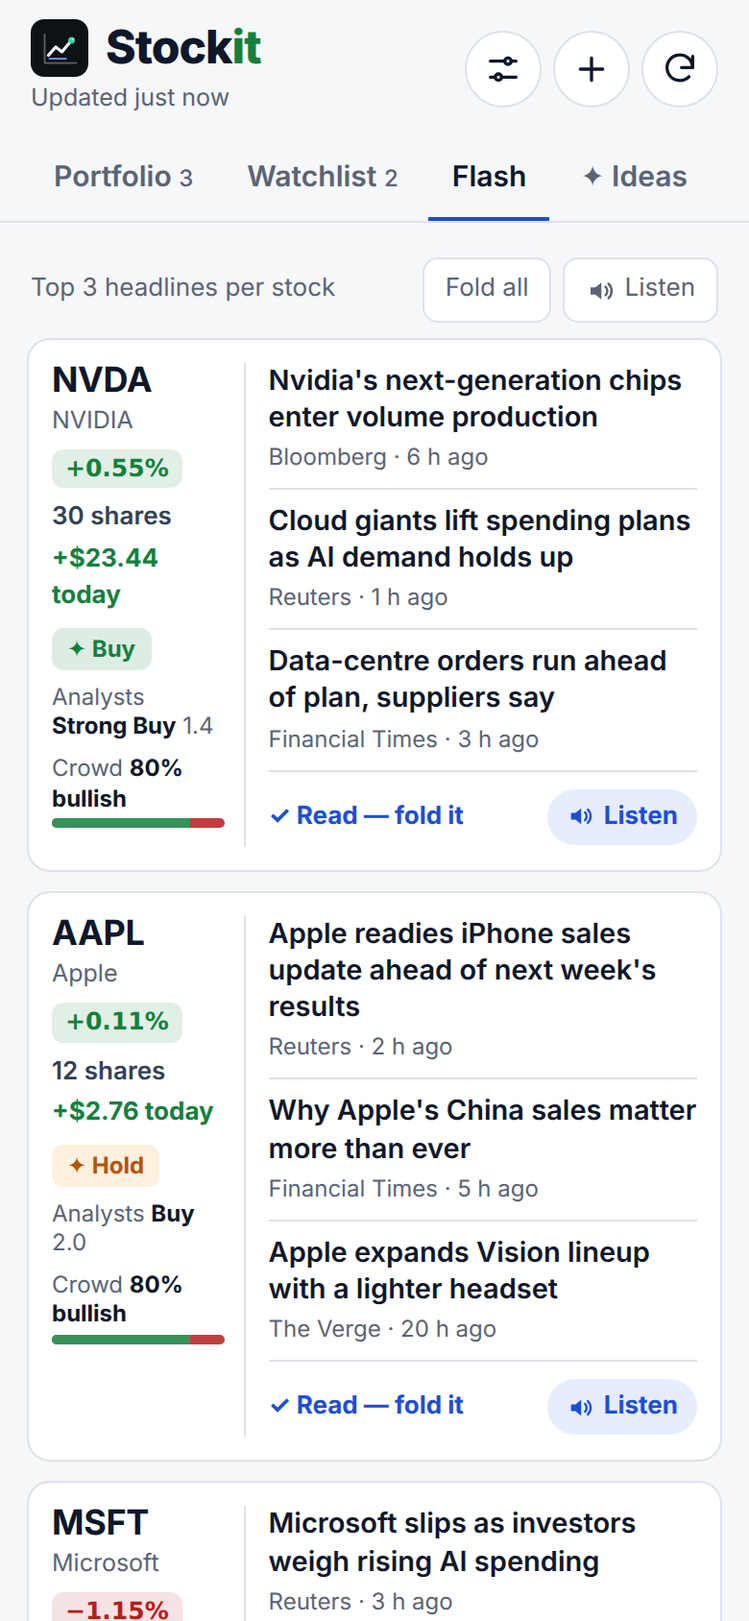
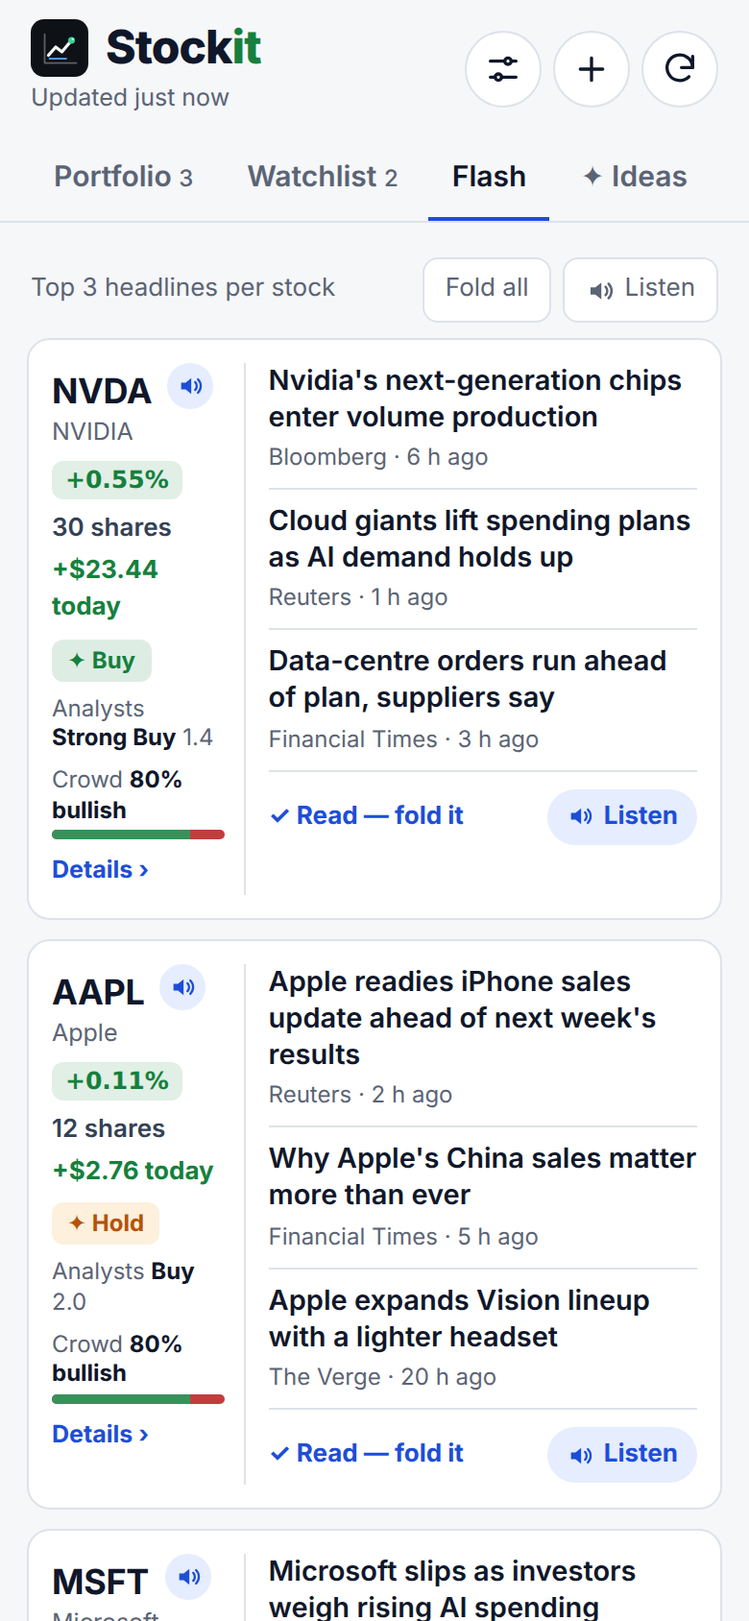
Stockit 1.4.0: tap a stock to hear its news, three full articles per story

Changed region(s): [[0.3077, 0.5237, 0.9538, 1.0], [0.0308, 0.2156, 0.3077, 0.8934], [0.0308, 0.8934, 0.2769, 1.0]]

diff --git a/Stockit.js b/Stockit.js
@@ -22,7 +22,7 @@
  */
 
 // This build's version. When releasing, bump it and add a matching entry to releases.json.
-const VERSION = '1.3.0';
+const VERSION = '1.4.0';
 const APP_ID = 'stockit';   // unique per app, never changes
 const REPO_RAW = 'https://raw.githubusercontent.com/gadominas/StockIt/main/';
 const SCRIPT_FILE = 'Stockit.js';   // the script's file name in the repository
@@ -816,11 +816,34 @@ function extractArticle(html) {
   const text = paras.join("\n\n");
   return { desc, paras, text, words: text ? text.split(/\s+/).length : 0 };
 }
+// Yahoo asks visitors in Europe for cookie consent before showing an article. Stockit answers the consent form once
+// (the same choice as tapping "Accept all") and keeps the cookies it gets, so later articles load directly.
+let consentRun = null;
+async function yahooConsent(html, pageUrl) {
+  const form = (html.match(/<form[^>]*method="post"[\s\S]*?<\/form>/i) || [])[0];
+  if (!form) return false;
+  const action = new URL((form.match(/action="([^"]*)"/i) || [])[1] || pageUrl, pageUrl).toString();
+  const fields = [];
+  for (const inp of form.match(/<input[^>]+>/gi) || []) {
+    const name = (inp.match(/name="([^"]+)"/i) || [])[1], val = (inp.match(/value="([^"]*)"/i) || [])[1] || "";
+    if (name && /type="hidden"/i.test(inp)) fields.push(encodeURIComponent(name) + "=" + encodeURIComponent(val.replace(/&amp;/g, "&")));
+  }
+  fields.push("agree=agree", "agree=agree");
+  const r = new Request(action);
+  r.method = "POST"; r.timeoutInterval = cfg("fetchTimeout");
+  r.headers = { "User-Agent": cfg("userAgent"), "Content-Type": "application/x-www-form-urlencoded" };
+  r.body = fields.join("&");
+  await r.loadString();
+  const jar = ((r.response && r.response.cookies) || []).filter(c => c && c.name && /yahoo/i.test(c.domain || "yahoo")).map(c => c.name + "=" + c.value);
+  if (jar.length) { settings.yahooCookie = jar.join("; "); write("settings", settings); }
+  return true;
+}
 async function articleHTML(url) {
   const get = async u => {
     const r = new Request(u);
     r.timeoutInterval = cfg("fetchTimeout");
-    r.headers = { "User-Agent": cfg("userAgent"), "Accept": "text/html,application/xhtml+xml;q=0.9,*/*;q=0.5" };
+    r.headers = { "User-Agent": cfg("userAgent"), "Accept": "text/html,application/xhtml+xml;q=0.9,*/*;q=0.5", "Accept-Language": "en-US,en;q=0.8" };
+    if (settings.yahooCookie && /(^|\.)yahoo\.com$/i.test((u.match(/^https?:\/\/([^/]+)/i) || [])[1] || "")) r.headers.Cookie = settings.yahooCookie;
     const html = await r.loadString();
     return { html: html || "", url: (r.response && r.response.url) || u, code: r.response ? r.response.statusCode : 0 };
   };
@@ -829,6 +852,10 @@ async function articleHTML(url) {
     if (real) url = real;
   }
   let r = await get(url);
+  if (/consent\.yahoo\.com|guce\.yahoo\.com/i.test(r.url)) {   // one consent answer at a time, shared by articles loading together
+    consentRun = consentRun || yahooConsent(r.html, r.url).catch(e => { console.log("Yahoo consent: " + e); return false; }).finally(() => { setTimeout(() => { consentRun = null; }, 0); });
+    if (await consentRun) r = await get(url);
+  }
   if (/news\.google\.com/i.test(r.url)) {   // still a Google page: follow it if it names the article
     const m = r.html.match(/data-n-au="([^"]+)"/) || r.html.match(/<a[^>]+href="(https:\/\/(?![a-z.]*google\.)[^"]+)"/i);
     r = m ? await get(m[1].replace(/&amp;/g, "&")) : { html: "", url };
@@ -912,29 +939,49 @@ Reply with ONLY JSON, no code fences: {"tldr":"one sentence with the gist","stor
 // ✦ AI weaves them into a few spoken paragraphs; without AI, each article's key sentences are read in turn.
 async function makeDigest(sym, links) {
   const m = market[sym] || {}, x = stocks.find(y => y.s === sym) || {};
-  const news = links.map(l => (m.news || []).find(h => h.l === l)).filter(Boolean).slice(0, 5);
-  if (!news.length) throw new Error("No headlines to read for " + sym);
-  const arts = await Promise.all(news.map(readArticle));
-  const read = arts.filter(a => a.usable).length, base = { at: Date.now(), n: news.length, read, links: news.map(h => h.l) };
+  const ranked = links.map(l => (m.news || []).find(h => h.l === l)).filter(Boolean).slice(0, 8);
+  if (!ranked.length) throw new Error("No headlines to read for " + sym);
+  // Read the top three articles; when one can't be read, read the next headline instead, until three are read.
+  const want = Math.min(3, ranked.length), done = [];
+  for (let k = 0; k < ranked.length && done.filter(d => d.a.usable).length < want; ) {
+    const need = want - done.filter(d => d.a.usable).length, batch = ranked.slice(k, k + need);
+    k += batch.length;
+    (await Promise.all(batch.map(readArticle))).forEach((a, i) => done.push({ h: batch[i], a }));
+  }
+  const readOnes = done.filter(d => d.a.usable).slice(0, want);
+  const headOnly = ranked.slice(0, want).filter(h => !readOnes.some(d => d.h === h));
+  const used = readOnes.concat(headOnly.map(h => ({ h, a: done.find(d => d.h === h) ? done.find(d => d.h === h).a : { art: null, usable: false } })));
+  const others = (m.news || []).filter(h => !used.some(d => d.h === h)).slice(0, 8);
+  const base = { at: Date.now(), n: used.length, read: readOnes.length, tried: done.length,
+    sources: used.map(d => ({ t: d.h.t, p: d.h.p, l: d.a.url || d.h.l, read: !!d.a.usable, words: d.a.usable ? d.a.art.words : 0 })) };
   const name = cleanName(m.name) || x.name || sym;
-  let note = "";
+  let note = readOnes.length < want ? `Read ${readOnes.length} of ${want} articles in full; the rest are told from their headlines.` : "";
   if (aiKey()) {
     try {
-      const dp = dayPct(m), per = Math.max(2500, Math.floor(cfg("tldrChars") * 1.5 / news.length));
+      const dp = dayPct(m), per = Math.max(3000, Math.floor(cfg("tldrChars") * 2 / Math.max(1, readOnes.length)));
       const system = `You are the news presenter in a stock app, telling a casual long-term investor who owns or watches ${name} (${sym}) what the latest news says. Your words are read aloud by a voice.
-Weave the articles into one story: lead with what matters most, connect the pieces, give the concrete facts and numbers, explain jargon in passing, and say where facts come from in words ("Reuters reports…").
-Use only facts in the articles. Where only a headline or summary is available, say so briefly rather than guessing. Never invent figures, quotes or events. Don't tell the listener to buy or sell.
+Weave the articles into one story: lead with what matters most, then go through what each article reports in detail — the facts, numbers, names, quotes and reasons it gives — connect the pieces, explain jargon in passing, and say where facts come from in words ("Reuters reports…").
+Use only facts in the material given. For items with only a headline, say briefly what the headline reports and that the full article wasn't available. Never invent figures, quotes or events. Don't tell the listener to buy or sell.
 Written for the ear: no bullet points, lists, brackets, tables, URLs or emoji; spell out symbols where it helps ("percent", "billion").
-Reply with ONLY JSON, no code fences: {"title":"at most 10 words","story":"3 to 5 paragraphs separated by blank lines, 250 to 400 words","takeaway":"one or two sentences on what it could mean for ${sym}"}`;
-      const user = `Today is ${dateS(Date.now())}. ${dp != null ? `${sym} moved ${dp.toFixed(2)}% today.` : ""}\n\n` + news.map((h, i) => `Article ${i + 1}: ${h.t}\nFrom ${h.p}, ${dateS(h.at || Date.now())}\n` +
-        (arts[i].usable ? arts[i].art.text.slice(0, per) : arts[i].art && arts[i].art.desc ? "Only its summary is available: " + arts[i].art.desc : "Only the headline is available.")).join("\n\n---\n\n");
-      const j = parseJSON(await aiCall(system, user, 1800, "digest"));
-      return Object.assign(base, { kind: "ai", by: settings.aiProvider, title: String(j.title || name + " in the news").slice(0, 140), story: String(j.story || "").slice(0, 6000), takeaway: String(j.takeaway || "").slice(0, 600) });
+Length: 350 to 550 words in 4 to 6 paragraphs when full articles are given; shorter only if there is genuinely little to say.
+Reply with ONLY JSON, no code fences: {"title":"at most 10 words","story":"the paragraphs, separated by blank lines","takeaway":"one or two sentences on what it could mean for ${sym}"}`;
+      const facts = [dp != null ? `${sym} moved ${dp.toFixed(2)}% today.` : "", m.f && m.f.rating ? `Analysts' average rating: ${m.f.rating}.` : ""].filter(Boolean).join(" ");
+      const user = `Today is ${dateS(Date.now())}. ${facts}\n\n` + used.map((d, i) => `Article ${i + 1}: ${d.h.t}\nFrom ${d.h.p}, ${dateS(d.h.at || Date.now())}\n` +
+          (d.a.usable ? "Full text:\n" + d.a.art.text.slice(0, per) : d.a.art && d.a.art.desc ? "Only its summary is available: " + d.a.art.desc : "Only the headline is available.")).join("\n\n---\n\n") +
+        (others.length ? "\n\n---\n\nOther recent headlines, for context only:\n" + others.map(h => `- ${h.t} (${h.p}, ${dateS(h.at || Date.now())})`).join("\n") : "");
+      let j = parseJSON(await aiCall(system, user, 2600, "digest"));
+      const words = t => String(t || "").split(/\s+/).filter(Boolean).length;
+      if (readOnes.length && words(j.story) < 250) {   // too thin for the material given: ask once more, longer
+        const again = parseJSON(await aiCall(system, user + `\n\nYour last story was only ${words(j.story)} words. Write the full 350 to 550 words, going through each article's details.`, 2600, "digest"));
+        if (words(again.story) > words(j.story)) j = again;
+      }
+      return Object.assign(base, { kind: "ai", by: settings.aiProvider, note, title: String(j.title || name + " in the news").slice(0, 140),
+        story: String(j.story || "").slice(0, 9000), takeaway: String(j.takeaway || "").slice(0, 700), words: words(j.story) });
     } catch (e) { note = "The AI story failed (" + String(e.message || e).slice(0, 60) + "), so these are the articles' key sentences."; }
   }
-  const parts = news.map((h, i) => {
-    const a = arts[i], t = extractiveTldr(h.t, a.usable ? a.art : null, (a.art && a.art.desc) || "");
-    return [h.t + ". From " + h.p + "."].concat(t.lead && t.lead !== h.t ? [t.lead] : []).concat(t.points.slice(0, 4)).join(" ");
+  const parts = used.map(d => {
+    const t = extractiveTldr(d.h.t, d.a.usable ? d.a.art : null, (d.a.art && d.a.art.desc) || "");
+    return [d.h.t + ". From " + d.h.p + "."].concat(t.lead && t.lead !== d.h.t ? [t.lead] : []).concat(t.points.slice(0, 6)).join(" ");
   });
   return Object.assign(base, { kind: "extract", note, title: name + " in the news", story: parts.join("\n\n"), takeaway: "" });
 }
@@ -1234,7 +1281,7 @@ async function handle(m) {
       return call("onTldr", m.id, tldrs[id]);
     }
     case "digest": {   // Flash › Listen: a stock's top articles as one story, cached for the same headlines
-      const links = (Array.isArray(m.links) ? m.links : []).map(String).slice(0, 5), id = "d:" + tldrId(m.s + "|" + links.join("|"));
+      const links = (Array.isArray(m.links) ? m.links : []).map(String).slice(0, 8), id = "d2:" + tldrId(m.s + "|" + links.slice(0, 3).join("|"));
       if (tldrs[id] && !m.force && !(tldrs[id].kind === "extract" && aiKey())) return call("onDigest", m.id, tldrs[id]);   // a key added since: tell it with AI now
       try { tldrs[id] = await makeDigest(m.s, links); pruneTldrs(); write("tldrs", tldrs); }
       catch (e) { return call("onDigest", m.id, { error: String(e.message || e) }); }
@@ -1840,12 +1887,13 @@ function clientApp() {
   // ---- Flash: each stock's top headlines, a TL;DR per headline, and reading aloud ----
   const MAJOR = /reuters|bloomberg|financial times|wall street journal|\bwsj\b|cnbc|barron|marketwatch|economist|associated press|yahoo finance|investor's business|morningstar|nikkei|forbes|fortune|handelsblatt/i;
   const QUOTE_PAGE = /stock price, news, quote|bond yield and price|price, chart|quote & history|historical prices/i;   // listing pages, not news
-  function topNews(x) {
+  function rankNews(x) {
     const now = Date.now(), tick = x.s.split(/[.=^-]/)[0].replace(/[^A-Za-z0-9]/g, ""), first = String(x.name || "").split(/[\s,.]/)[0].toLowerCase();
     const about = h => (tick && new RegExp("\\b" + tick + "\\b", "i").test(h.t)) || (first.length > 2 && h.t.toLowerCase().includes(first));
     const score = h => Math.exp(-(now - h.at) / 864e5 / 1.5) + (MAJOR.test(h.p) ? 0.5 : 0) + (about(h) ? 0.4 : -0.8);   // headlines that don't name the company sink
-    return (x.news || []).filter(h => !QUOTE_PAGE.test(h.t)).map(h => [h, score(h)]).sort((a, b) => b[1] - a[1]).slice(0, S.cfg.flashPerStock || 3).map(a => a[0]);
+    return (x.news || []).filter(h => !QUOTE_PAGE.test(h.t)).map(h => [h, score(h)]).sort((a, b) => b[1] - a[1]).map(a => a[0]);
   }
+  const topNews = x => rankNews(x).slice(0, S.cfg.flashPerStock || 3);
   const flashOrder = () => S.stocks.slice().sort((a, b) => (a.list === "own" ? 0 : 1) - (b.list === "own" ? 0 : 1)
     || ((b.sh || 0) * (b.price || 0)) - ((a.sh || 0) * (a.price || 0)) || a.s.localeCompare(b.s));
   // A folded card stays folded until a newer headline arrives; then it opens again, marked New.
@@ -1868,6 +1916,14 @@ function clientApp() {
       ${r ? `<span class="fl-r" title="Average analyst rating">Analysts <b>${esc(r[0])}</b>${r[1] ? ` <span class="muted">${esc(r[1])}</span>` : ""}</span>` : ""}
       ${crowd != null ? `<span class="fl-r" title="StockTwits crowd mood">Crowd <b class="${crowd >= 50 ? "up" : "down"}">${crowd}% bullish</b></span><span class="flmood" aria-hidden="true"><i style="width:${crowd}%"></i></span>` : ""}`;
   }
+  const dgOpen = new Set();
+  function storyPanel(x, d, dk) {
+    const srcs = d.sources || [];
+    return `<details class="fl-story" data-k="${esc(dk)}" ${dgOpen.has(dk) ? "open" : ""}><summary>${d.kind === "ai" ? "✦ " : ""}The story you heard · ${srcs.length ? `${d.read} of ${srcs.length} articles read in full` : esc(rel(d.at))}</summary>
+      <h4>${esc(d.title)}</h4>${paras(d.story).join("")}${d.takeaway ? `<p class="fl-take"><b>What it could mean for ${esc(x.s)}:</b> ${esc(d.takeaway)}</p>` : ""}
+      ${srcs.length ? `<ol class="fl-src">${srcs.map(sr => `<li><button class="link small" data-act="openlink" data-v="${esc(sr.l)}">${esc(sr.t)}</button><small>${esc(sr.p)} · ${sr.read ? `read in full, ${sr.words} words` : "headline only — the article couldn't be opened"}</small></li>`).join("")}</ol>` : ""}
+      ${d.note ? `<p class="note">${esc(d.note)}</p>` : ""}</details>`;
+  }
   function flashHTML() {
     if (!S.stocks.length) return `<section class="empty"><h2>No stocks yet</h2><p>Add a stock and its top headlines appear here, each with a TL;DR.</p><button class="primary" data-act="addopen">Add stocks</button></section>`;
     const n = S.cfg.flashPerStock || 3, list = flashOrder(), folded = list.filter(isFolded).length;
@@ -1880,13 +1936,15 @@ function clientApp() {
         if (f) return `<article class="fl folded" id="c-fl-${esc(x.s)}"><button class="fl-fold" data-act="fold" data-v="${esc(x.s)}" data-on="0" aria-label="Open ${esc(x.s)} headlines">
             <b>${esc(x.s)}</b><span class="pill ${cls(dayPct(x))}">${pct(dayPct(x))}</span>${x.sig ? sigChip(x.sig) : ""}
             <span class="fl-fs">${top.length} read · newest ${top.length ? rel(newest(x)) : "—"}</span><span class="chev" aria-hidden="true">›</span></button></article>`;
-        return `<article class="fl" id="c-fl-${esc(x.s)}"><div class="fl-l"><button class="fl-s" data-act="open" data-v="${esc(x.s)}" aria-label="Open ${esc(x.s)}">
-            <b>${esc(x.s)}</b><small>${short}</small></button>${flashFacts(x)}</div>
+        const dk = dgKey(x), dd = dg[dk], busyS = !!dgWait[dk], on = tts.on && (tts.items[(tts.parts[tts.i] || {}).k] || {}).id === "fl-" + x.s;
+        return `<article class="fl" id="c-fl-${esc(x.s)}"><div class="fl-l"><button class="fl-s" data-act="listenstock" data-v="${esc(x.s)}" aria-label="Listen to ${esc(x.s)} news">
+            <b>${esc(x.s)} <span class="fl-spk ${busyS ? "busy" : ""}">${busyS ? `<span class="busy-dot"></span>` : SPK}</span></b><small>${short}</small></button>${flashFacts(x)}
+            <button class="fl-open" data-act="open" data-v="${esc(x.s)}">Details ›</button></div>
           <div class="fl-n">${isNew ? `<span class="fl-new">New since you folded it</span>` : ""}${top.length ? top.map(h => `<button class="fl-h" data-act="newsopen" data-s="${esc(x.s)}" data-v="${esc(h.l)}"><b>${esc(h.t)}</b><small>${esc(h.p)} · ${rel(h.at)}</small></button>`).join("")
             : `<p class="muted small">${x.newsAt ? "No headlines in the last few days." : "Headlines load with the next refresh."}</p>`}
-            ${top.length ? `<div class="fl-act"><button class="fl-done" data-act="fold" data-v="${esc(x.s)}" data-on="1">✓ Read — fold it</button><button class="fl-lis" data-act="listenstock" data-v="${esc(x.s)}">${SPK}Listen</button></div>` : ""}</div></article>`;
+            ${top.length ? `<div class="fl-act"><button class="fl-done" data-act="fold" data-v="${esc(x.s)}" data-on="1">✓ Read — fold it</button><button class="fl-lis" data-act="listenstock" data-v="${esc(x.s)}">${SPK}Listen</button></div>` : ""}</div>${dd && !dd.error ? storyPanel(x, dd, dk) : ""}</article>`;
       }).join("")}</div>
-      <p class="note pad">Tap a headline for its TL;DR, or Listen for the story of a stock's top articles; fold a card once you've read it, and it opens again when new headlines arrive. Analysts is the average Wall Street rating from Yahoo Finance; Crowd is the StockTwits mood. Not financial advice.</p>`;
+      <p class="note pad">Tap a stock to hear the story of its top three articles, read in full; tap a headline for its TL;DR; fold a card once you've read it, and it opens again when new headlines arrive. Analysts is the average Wall Street rating from Yahoo Finance; Crowd is the StockTwits mood. Not financial advice.</p>`;
   }
   const newsOf = (s, l) => { const x = byS(s); return x && (x.news || []).find(h => h.l === l); };
   function openNews(s, l) {
@@ -2089,10 +2147,10 @@ function clientApp() {
   function getDigest(x) {
     const k = dgKey(x);
     if (dg[k] && !(dg[k].kind === "extract" && S.settings.hasKey)) return Promise.resolve(dg[k]);
-    if (!dgWait[k]) { let res; const p = new Promise(r => { res = r; }); dgWait[k] = { p, res }; send("digest", { s: x.s, links: topNews(x).map(h => h.l), id: k }); }
+    if (!dgWait[k]) { let res; const p = new Promise(r => { res = r; }); dgWait[k] = { p, res }; send("digest", { s: x.s, links: rankNews(x).slice(0, 8).map(h => h.l), id: k }); if (tab === "flash") render(); }
     return dgWait[k].p;
   }
-  window.onDigest = (id, d) => { if (!d.error) dg[id] = d; const w = dgWait[id]; delete dgWait[id]; if (w) w.res(d); };
+  window.onDigest = (id, d) => { if (!d.error) dg[id] = d; const w = dgWait[id]; delete dgWait[id]; if (w) w.res(d); if (tab === "flash") render(); };
   function digestItem(x, d) {
     if (d.error) return { id: "fl-" + x.s, title: x.s, text: sentence(x.name || x.s) + " " + topNews(x).map(h => sentence(h.t) + " From " + h.p + ".").join(" ") };
     return { id: "fl-" + x.s, title: (d.kind === "ai" ? "✦ " : "") + x.s + " — " + d.title, text: `${sentence(x.name || x.s)} ${sentence(d.title)} ${d.story.replace(/\s*\n+\s*/g, " ")} ${d.takeaway ? sentence(d.takeaway) : ""}` };
@@ -2140,6 +2198,7 @@ function clientApp() {
     $("#plPause").innerHTML = tts.paused ? PLAY_ICO : PAUSE_ICO;
     $("#plPause").setAttribute("aria-label", tts.paused ? "Resume" : "Pause");
     if (it.id) { const c = document.getElementById("c-" + it.id); if (c) c.classList.add("speaking"); }
+    if (!on || tts.idle) document.querySelectorAll(".fl.speaking").forEach(el => el.classList.remove("speaking"));
   }
   const PLAY_ICO = `<svg viewBox="0 0 24 24"><path d="M8 5v14l11-7z"/></svg>`, PAUSE_ICO = `<svg viewBox="0 0 24 24"><path d="M7 5h4v14H7zM13 5h4v14h-4z"/></svg>`;
   const vseg = (k, opts) => `<div class="seg wide">${opts.map(([v, l]) => `<button class="${String(S.settings[k]) === String(v) ? "on" : ""}" data-act="voiceset" data-k="${k}" data-v="${v}">${l}</button>`).join("")}</div>`;
@@ -2211,7 +2270,7 @@ function clientApp() {
       case "listenbrief": if (S.briefing) speak("Briefing", briefItems(S.briefing)); break;
       case "listenstory": { const x = byS(v); if (x && x.story) speak(x.s + " story", storyItems(x, x.story)); break; }
       case "listenflash": { const xs = flashOrder().filter(x => !isFolded(x) && topNews(x).length); if (xs.length) listenNews(xs, "Flash"); else window.toast("No headlines to read yet"); break; }
-      case "listenstock": { const x = byS(v); if (x && topNews(x).length) listenNews([x], x.s + " news"); break; }
+      case "listenstock": { const x = byS(v); if (!x || !topNews(x).length) break; const cur = tts.on && (tts.items[(tts.parts[tts.i] || {}).k] || {}).id === "fl-" + x.s; if (cur || (tts.on && tts.label === x.s + " news")) togglePause(); else listenNews([x], x.s + " news"); break; }
       case "plpause": togglePause(); break;
       case "plnext": skipItem(); break;
       case "plstop": stopSpeaking(); break;
@@ -2284,6 +2343,7 @@ function clientApp() {
     }
   });
   // Typed values and menus arrive through "change"
+  document.addEventListener("toggle", e => { const el = e.target; if (el.classList && el.classList.contains("fl-story")) { if (el.open) dgOpen.add(el.dataset.k); else dgOpen.delete(el.dataset.k); } }, true);
   document.addEventListener("change", e => {
     if (e.target.classList && e.target.classList.contains("ttsvoicesel")) { S.settings.ttsVoice = e.target.value; send("set", { k: "ttsVoice", v: e.target.value }); return; }
     if (e.target.classList && e.target.classList.contains("ttsmodelsel")) { S.settings.ttsModel = e.target.value; send("set", { k: "ttsModel", v: e.target.value }); renderCfg(); return; }
@@ -2593,6 +2653,20 @@ body.d-tiny .row .trendln,body.d-tiny .r-sig span:last-child{display:none}
 .fl-r b{color:var(--ink);font-weight:700}
 .flmood{display:flex;width:100%;height:5px;margin-top:-3px;border-radius:3px;overflow:hidden;background:var(--down);opacity:.85}
 .flmood i{flex:none;height:100%;background:var(--up)}
+.fl-spk{display:inline-grid;place-items:center;width:24px;height:24px;margin-left:4px;border-radius:12px;background:var(--signal-wash);color:var(--signal);vertical-align:2px}
+.fl-spk .ico{width:14px;height:14px;margin:0}
+.fl-spk .busy-dot{width:12px;height:12px}
+.fl.speaking .fl-spk{background:var(--amber);color:var(--paper)}
+.fl-open{font-size:calc(12.5px * var(--ts));font-weight:700;color:var(--signal);padding:2px 0}
+.fl-story{grid-column:1 / -1;margin:0;border-top:1px solid var(--rule);padding-top:10px}
+.fl-story summary{font-size:calc(13px * var(--ts));font-weight:700;color:var(--signal);cursor:pointer}
+.fl-story h4{font:700 calc(16px * var(--ts))/1.3 var(--display);margin:8px 0 6px}
+.fl-story p{font-size:calc(14.5px * var(--ts));line-height:1.55;margin:0 0 9px}
+.fl-take{background:var(--signal-wash);border-radius:8px;padding:8px 10px}
+.fl-src{padding-left:1.2em;margin:6px 0}
+.fl-src li{margin-bottom:6px;font-size:calc(13px * var(--ts))}
+.fl-src li .link{text-align:left;font-weight:600}
+.fl-src small{display:block;color:var(--muted)}
 .fl-act{display:flex;align-items:center;justify-content:space-between;gap:8px;margin-top:8px}
 .fl-done{font-size:calc(13px * var(--ts));font-weight:700;color:var(--signal);padding:6px 0}
 .fl-lis{display:inline-flex;align-items:center;font-size:calc(13px * var(--ts));font-weight:700;color:var(--signal);padding:5px 10px;border-radius:16px;background:var(--signal-wash)}

diff --git a/README.md b/README.md
@@ -10,7 +10,7 @@ Your stocks, the news around them and a plain-English story of what's going on.<
 
 An iPhone and iPad app for [Scriptable](https://scriptable.app). One file. No account, no server, no subscription.
 
-[![Version](https://img.shields.io/badge/version-1.3.0-1d4ed8)](CHANGELOG.md)
+[![Version](https://img.shields.io/badge/version-1.4.0-1d4ed8)](CHANGELOG.md)
 [![Platform](https://img.shields.io/badge/iOS-Scriptable-0f172a)](https://apps.apple.com/app/scriptable/id1405459188)
 [![AI](https://img.shields.io/badge/AI-Claude%20or%20OpenAI%2C%20optional-8b5cf6)](#ai-on-your-terms)
 [![Not financial advice](https://img.shields.io/badge/not-financial%20advice-b91c1c)](#not-financial-advice)
@@ -61,7 +61,7 @@ Most stock apps show you a price and a wall of headlines. Stockit is made for a 
 - **It opens on your money.** Portfolio value, today's change and the gain since you bought, before anything else.
 - **It explains instead of dumping data.** Tap any number, such as P/E or beta, to see what it means in plain words. The briefing and stories read like a short newspaper piece, with numbered links to the headlines they use.
 - **News in a flash.** The Flash tab puts each stock next to its top three headlines. Tap one for a TL;DR and what it could mean for the stock, then open the source only if it's worth it.
-- **Listen instead of reading.** Tap Listen on a stock and Stockit reads its top articles in full and tells them as one story. Or have the briefing, a TL;DR or the whole Flash read aloud while you walk or drive.
+- **Listen instead of reading.** Tap a stock in Flash and Stockit reads three of its articles in full and tells them as one story. Or have the briefing, a TL;DR or the whole Flash read aloud while you walk or drive.
 - **One place for the news.** Yahoo Finance, the wider web through Google News, and the crowd's mood from StockTwits, for each stock you own or watch.
 - **Bring your stocks in fast.** Paste a list, open your broker's CSV export, or take a screenshot of Apple's Stocks app; no typing ticker by ticker.
 - **Yours.** No account, no tracking, no subscription. Your data stays in your iCloud Drive and AI runs on your own key, with every token counted.
@@ -112,7 +112,7 @@ Most stock apps show you a price and a wall of headlines. Stockit is made for a 
 | 🔢 **Numbers, explained** | P/E, forward P/E, market cap, dividend yield, EPS, beta, analyst target, margins, growth, 52-week range and 1, 6 and 12-month performance. Tap any of them for a plain-words explanation. |
 | ⚡ **Flash** | A tab with every stock on the left and its top three headlines on the right, owned stocks first. Beside the headlines: your shares, today's profit or loss, Stockit's view, the analysts' average rating and the crowd's mood. Fold a card once read; it opens again when new headlines arrive. |
 | ✂ **TL;DR of any headline** | Tap a headline, in Flash or on a stock's page, for a one-line gist, the key points and what it could mean for the stock, then **Read the full article** at the publisher. ✦ AI writes it when you have a key; without one, the key sentences are taken from the article itself. |
-| 🎧 **Listen to a stock's news** | **Listen** on a Flash card reads that stock's top three articles in full and ✦ AI tells them as one spoken story, naming its sources, then what it could mean for the stock. Without a key, each article's key sentences are read in turn. |
+| 🎧 **Listen to a stock's news** | Tap a stock in Flash: Stockit reads three of its articles in full (skipping any it can't open) and ✦ AI tells them as one spoken story of 350 to 550 words, naming its sources, then what it could mean for the stock. The story then appears under the card with its sources. Without a key, each article's key sentences are read in turn. |
 | 🔊 **Read aloud** | **Listen** to the briefing, a stock's story, any TL;DR or the whole Flash. Pause, skip or stop from the player at the bottom. Use your iPhone's own voices (free, offline) or a natural **✦ AI voice** from OpenAI. |
 | 📰 **Headlines and the crowd** | Business news from Yahoo Finance, wider coverage from the web through Google News, and how StockTwits posts lean, bullish or bearish. Each source can be switched off. |
 | ✦ **Daily briefing** | After a refresh, AI writes a short story of your portfolio today, what to keep an eye on, and a buy, hold or sell view with one line per stock. At most every 6 hours, or when your stocks change. |
@@ -140,7 +140,12 @@ The left column shows what matters for that stock at a glance:
 - **Analysts:** the average Wall Street rating from Yahoo Finance, from 1 (Strong Buy) to 5 (Sell).
 - **Crowd:** how StockTwits posts lean, with a bullish-versus-bearish bar.
 
-**🎧 Listen** on a card reads the stock's top articles in full and tells them as one story of a few minutes: what happened, how the pieces connect, the numbers, where each fact comes from, and what it could mean for the stock. **Listen** at the top does the same for every open card in turn. The player starts at once; the first story takes a few seconds while the articles are read, and the next one is prepared while you listen.
+**🎧 Tap a stock** (its ticker, or **Listen** on the card) to hear the story of its news. Stockit opens the top three articles and reads them in full; if one can't be opened, it reads the next headline instead. ✦ AI then tells them as one story of a few minutes: what happened, each article's facts and numbers, how the pieces connect, where each fact comes from, and what it could mean for the stock. Tap the stock again to pause. **Listen** at the top does the same for every open card in turn. The player starts at once; the first story takes a few seconds while the articles are read, and the next one is prepared while you listen.
+
+The story then appears under the card as **The story you heard**, with each source and whether it was read in full or only from its headline. **Details ›** opens the stock's page.
+
+<p align="center"><img src="docs/screenshots/21-flash-story.png" width="250" alt="NVDA playing in Flash, with the story it is reading shown under the card"></p>
+<p align="center"><sub><b>Tap a stock</b>: its three articles, told as one story, with the text under the card</sub></p>
 
 Once you've read a card, tap **✓ Read — fold it**. It shrinks to one line and stays folded until a newer headline arrives; then it opens again, marked **New since you folded it**. **Fold all** and **Open all** are at the top, and **Listen** reads only the open cards.
 
@@ -222,7 +227,8 @@ API usage is billed by Anthropic or OpenAI, separately from any Claude or ChatGP
 | Put a read card away | Tap **✓ Read — fold it**; tap the folded line to open it again. **Fold all** and **Open all** are at the top |
 | Get the gist of a headline | Tap it, in Flash or on a stock's page, for its TL;DR |
 | Read the whole article | In the TL;DR, tap **Read the full article at …** |
-| Hear a stock's news as a story | Tap **Listen** on its Flash card; **Listen** at the top plays every open card in turn |
+| Hear a stock's news as a story | Tap the stock in **Flash** (tap again to pause); **Listen** at the top plays every open card in turn |
+| Read the story you heard | Open **The story you heard** under the card |
 | Listen instead of reading | Tap **Listen** on the briefing, a story or a TL;DR. Pause, skip or stop from the player |
 | Change the voice | **Settings › Listening**: **iPhone voice** or **✦ AI voice**, then **Test the voice** |
 | Refresh prices and news | Tap refresh |
@@ -281,6 +287,7 @@ Stockit follows five shared blueprints: in-app updates, settings, AI configurati
 | A stock isn't found | Use its Yahoo Finance ticker, with the exchange suffix outside the US (`ASML.AS`, `VWCE.DE`) |
 | "Updated; couldn't load …" | That source didn't answer. Tap refresh again in a minute; the last loaded data stays on screen |
 | Company numbers are missing | Yahoo sometimes doesn't answer for these. Add a free Finnhub key in **Settings › News and signals** as a backup |
+| A story says some articles were headline only | Those pages block reading from apps. Stockit already tried up to eight headlines; open the sources under **The story you heard** to read them yourself |
 | A TL;DR says the article couldn't be read | The publisher blocks reading from apps (paywall or cookie wall). Tap **Read the full article** to read it at the source |
 | The voice sounds robotic | Download an Enhanced or Premium voice in iOS Settings › Accessibility › Spoken Content › Voices, then pick it in **Settings › Listening**, or switch to **✦ AI voice** |
 | The briefing, views or Ideas are missing | They appear once an AI key is saved in **Settings › AI settings** |
